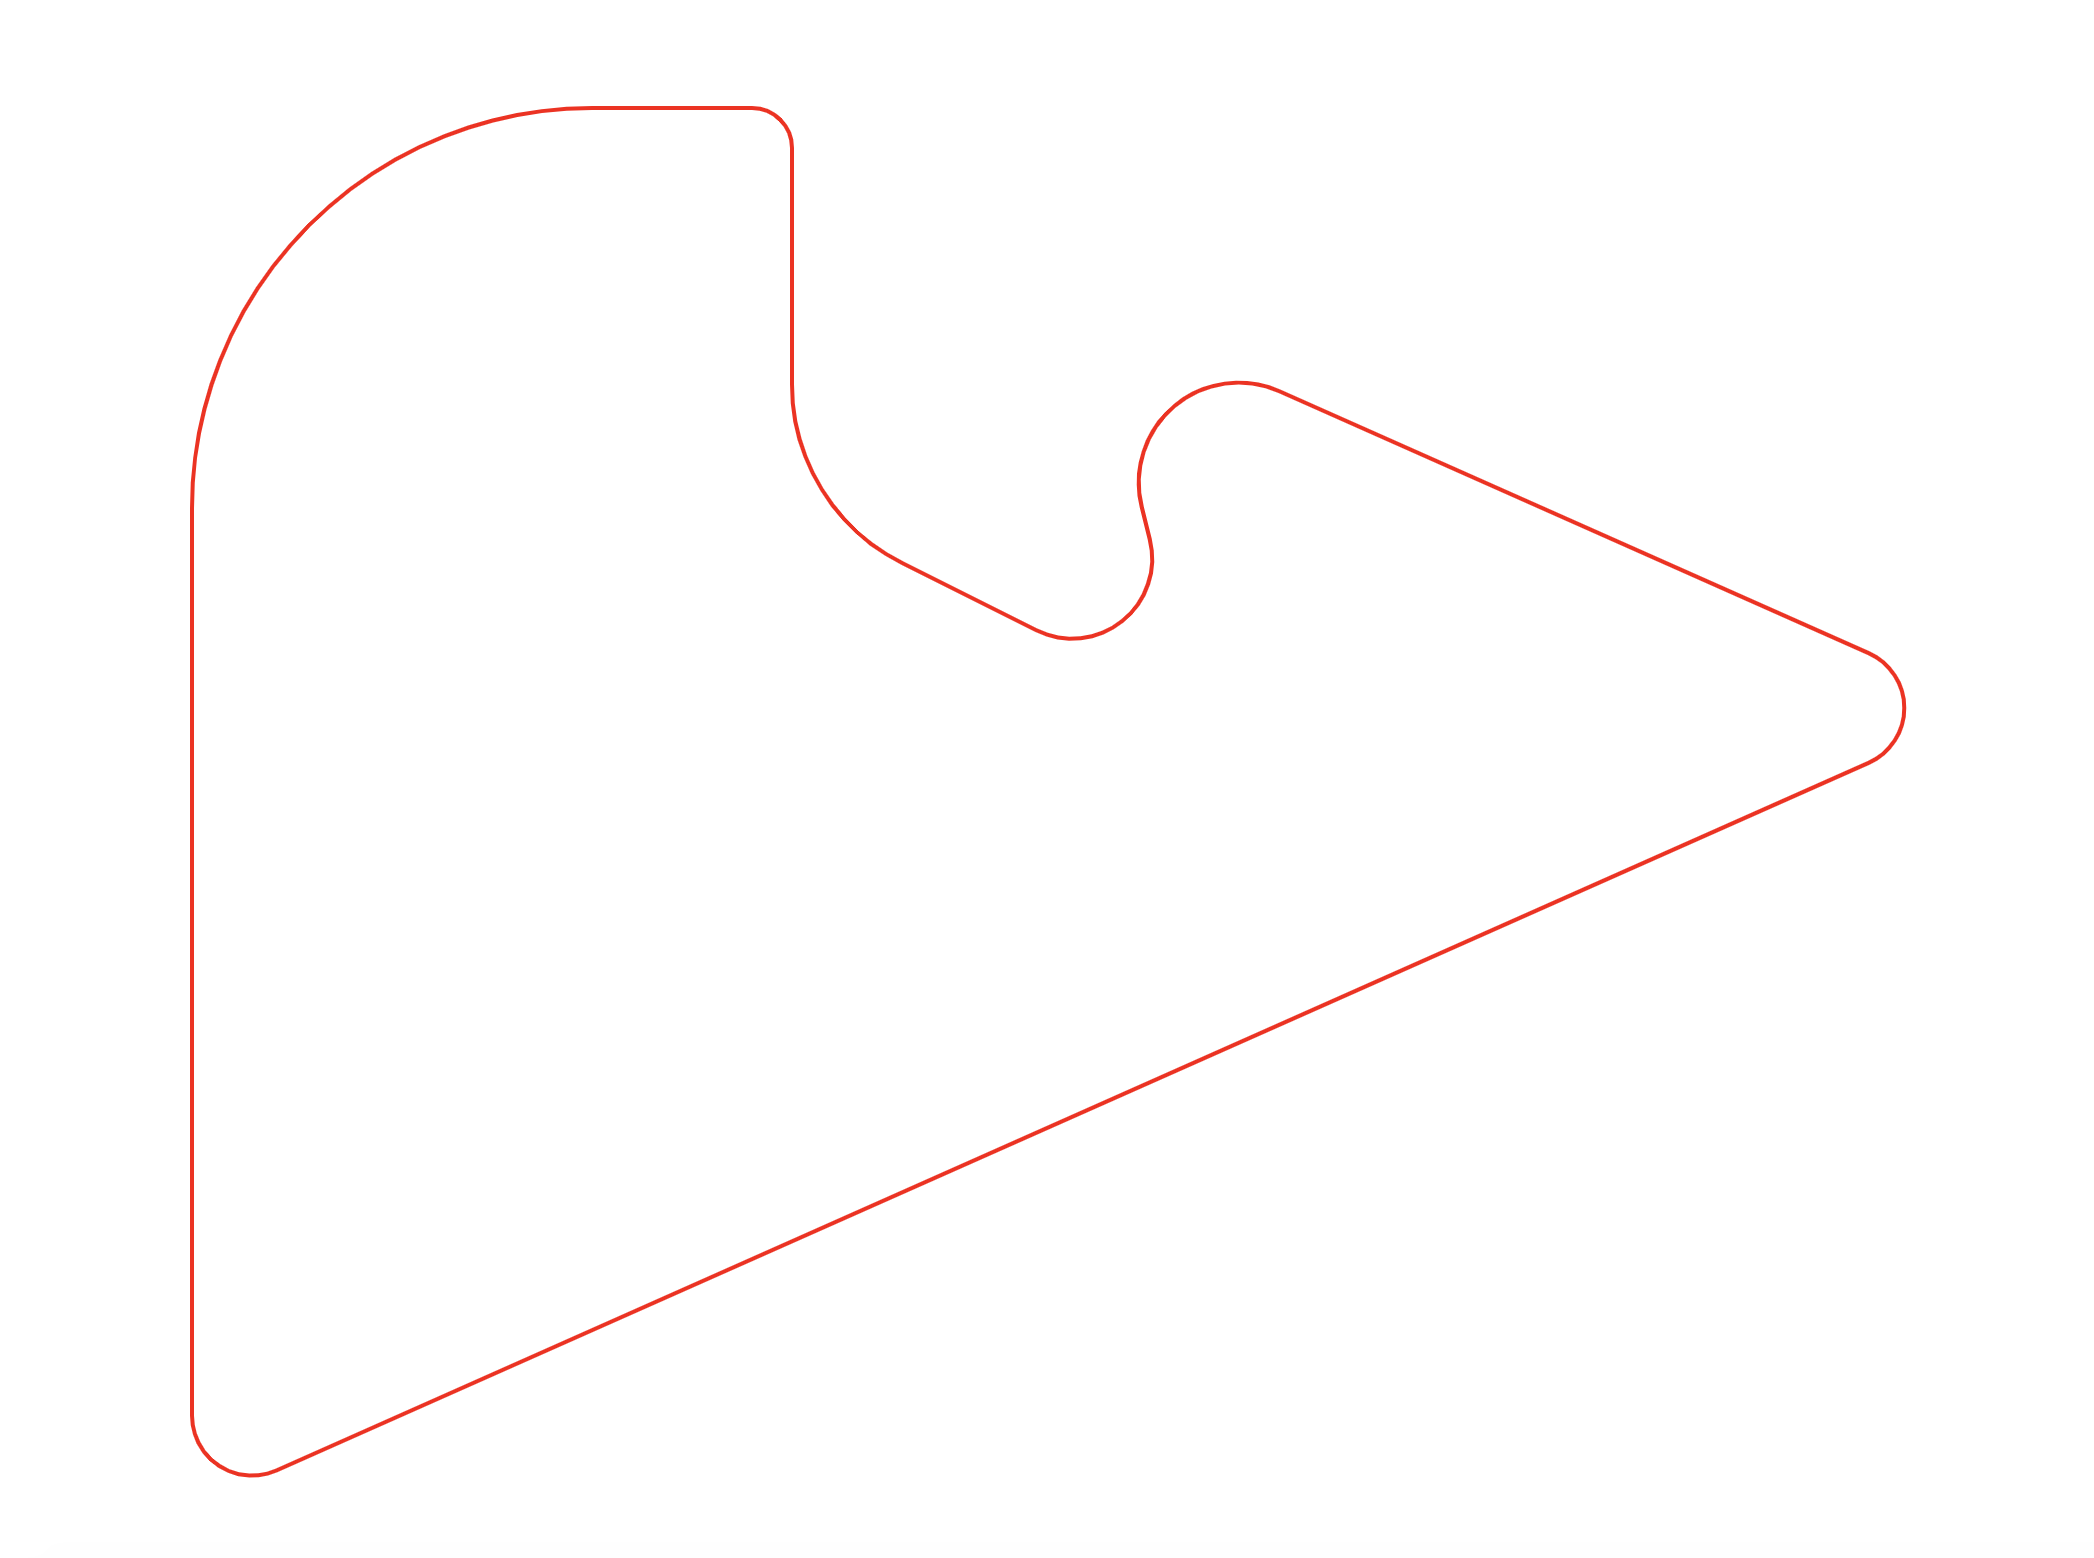
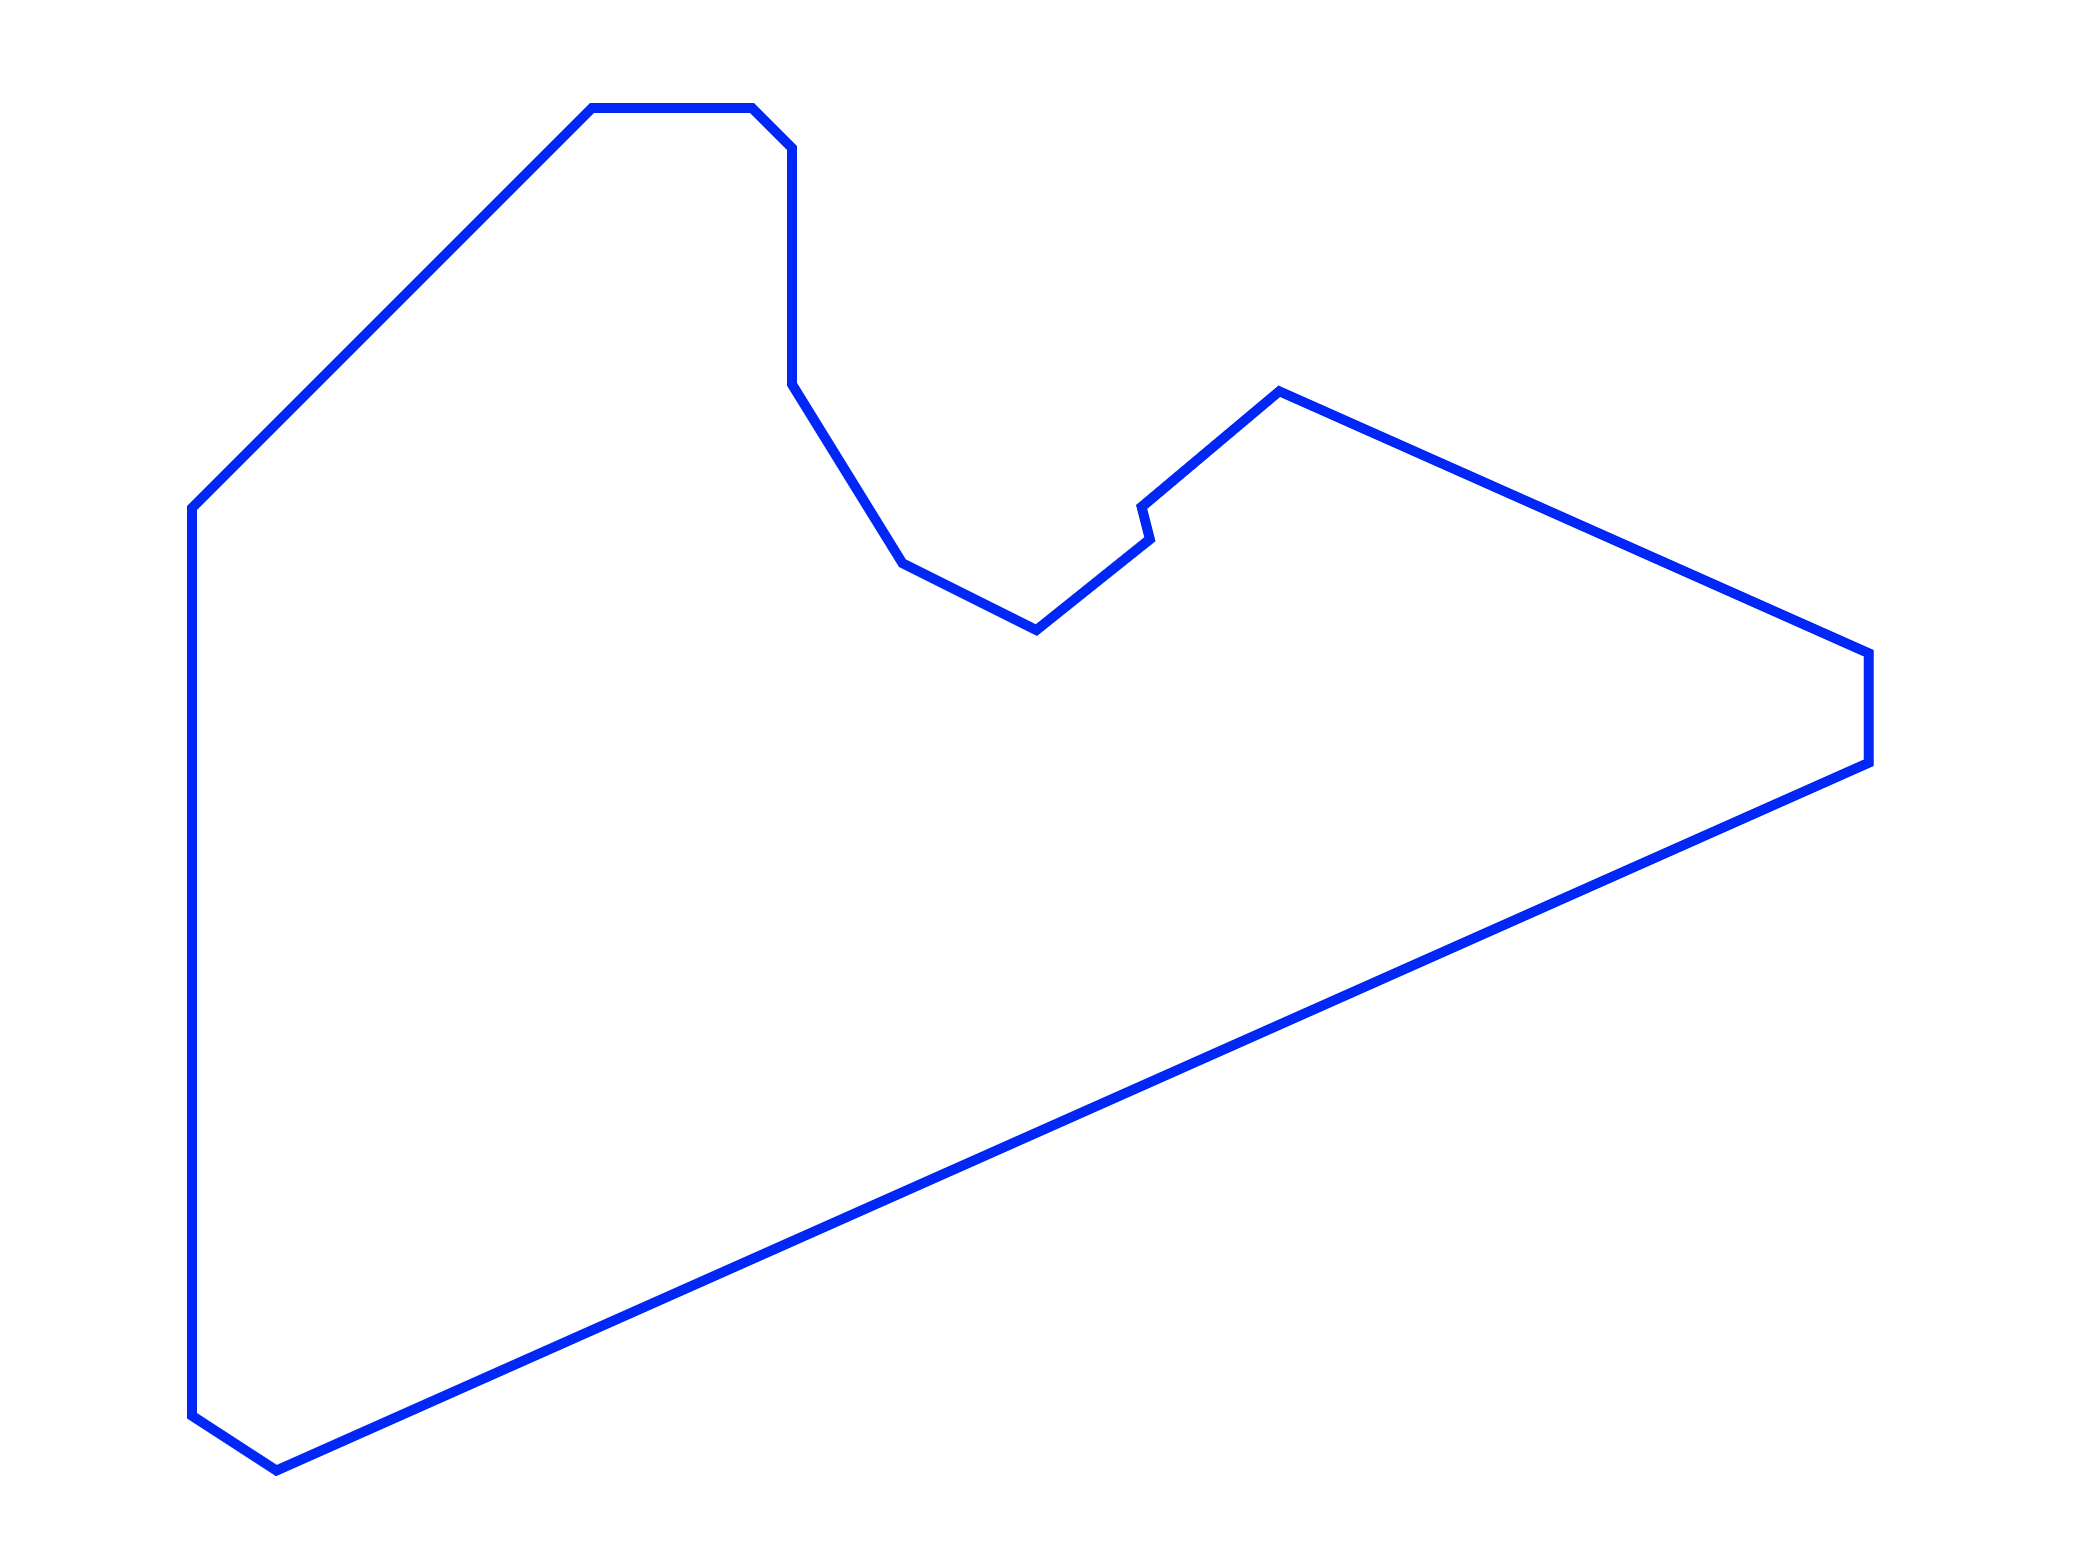
docs: update rread.me

diff --git a/index.js b/index.js
@@ -200,12 +200,12 @@ let points4 = [{ x: 0, y: 50, r: 10, type: 'fillet' },
 
 
 const runPoints = points
-document.getElementById("pathId").setAttribute('d', formPath(runPoints))
-// document.getElementById("helperPath1").setAttribute('d', formPath(runPoints.map((i) => {
+document.getElementById("path0").setAttribute('d', formPath(runPoints))
+// document.getElementById("path1").setAttribute('d', formPath(runPoints.map((i) => {
 //     i.type = CHAMFER
 //     return i
 // })))
-// document.getElementById("helperPath2").setAttribute('d', formPath(runPoints.map((i) => {
+// document.getElementById("path2").setAttribute('d', formPath(runPoints.map((i) => {
 //     i.type = NONE
 //     return i
 // })))

diff --git a/index.html b/index.html
@@ -8,11 +8,11 @@
 </head>
 <body>
     <svg height="1000" width="1000">
-        <path id="helperPath1"  stroke="Yellow"
-        stroke-width="2"  fill="none" />
-        <path id="helperPath2"  stroke="blue"
-        stroke-width="2"  fill="none" />
-        <path id="pathId"  stroke="red"
+        <path id="path2"  stroke="green"
+        stroke-width="8"  fill="none" />
+        <path id="path1"  stroke="blue"
+        stroke-width="5"  fill="none" />
+        <path id="path0"  stroke="red"
         stroke-width="2"  fill="none" />
 
        

diff --git a/README.md b/README.md
@@ -4,5 +4,6 @@ An algorithm for creating edged, chamfer, and fillet corners.
 #### Corners Example:
 ![corners](./corners.jpeg "Corners Example")
 #### Demo:
-![demo](./preview1.png "Demo")
-![demo](./preview2.png "Demo")
+![demo](./preview0.png "original")
+![demo](./preview1.png "all points chamfer")
+![demo](./preview2.png "all points none")
